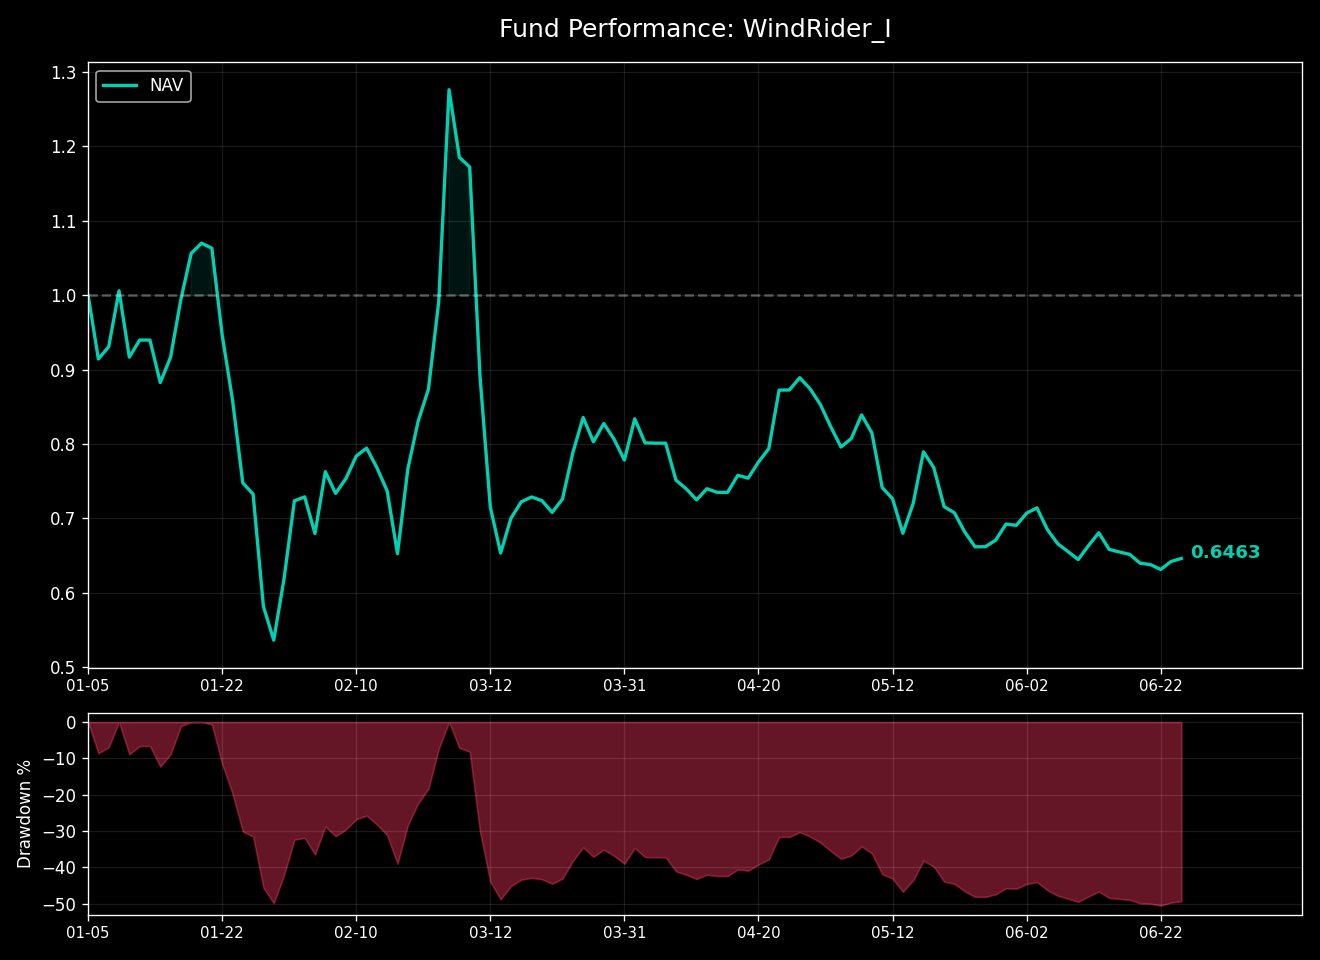
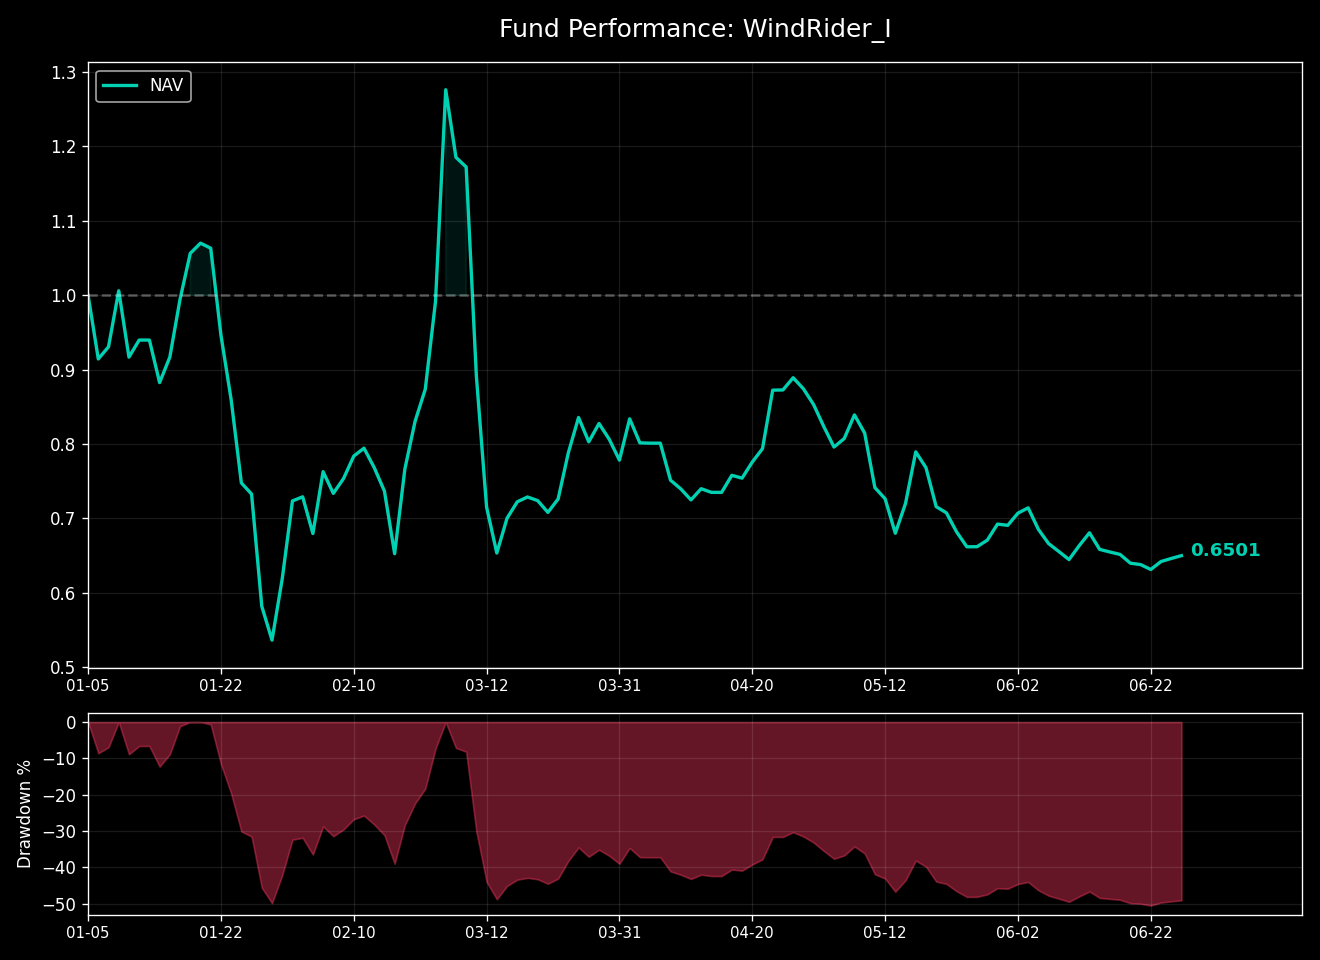
Updated Hugo site content

diff --git a/content/investment/windrider-1.md b/content/investment/windrider-1.md
@@ -1,8 +1,8 @@
 +++
 title = "风舵1号 (WindRider I)  /// 指数"
 summary = "商品期货分形摆动策略，实盘最新净值与核心风险指标。"
-date = 2026-06-24T15:15:03+08:00
-lastmod = 2026-06-24T15:15:03+08:00
+date = 2026-06-25T15:15:03+08:00
+lastmod = 2026-06-25T15:15:03+08:00
 draft = false
 description = "商品期货分形摆动策略实盘"
 +++
@@ -15,24 +15,24 @@ description = "商品期货分形摆动策略实盘"
 
 ### 风舵1号 (WindRider I) &nbsp;&nbsp;<span style="color: #E63946; font-weight: bold;">/</span><span style="color: #F1A73E; font-weight: bold;">/</span><span style="color: #000091; font-weight: bold;">/</span>&nbsp;&nbsp; 指数
 商品期货分形摆动策略实盘<br>
-净值简报 <small>(截至: 2026-06-24)</small>
+净值简报 <small>(截至: 2026-06-25)</small>
 
 |  |  |
 | :--- | :--- |
 | **指数代码：** | WDR1.CTA |
 | **起步日期：** | 2026-01-05 |
-| **最新净值：** | 0.6463 |
-| **今日涨跌：** | +0.64% |
+| **最新净值：** | 0.6501 |
+| **今日涨跌：** | +0.59% |
 
 ===========================
 
 | 核心指标 | |
 | :--- | :--- |
-| **累计涨跌：** | -35.37% |
-| **年化收益：** | -60.83% |
+| **累计涨跌：** | -34.99% |
+| **年化收益：** | -60.12% |
 | **最大回撤：** | -50.51% |
-| **卡玛比率：** | -1.20 |
-| **策略状态：** | 已运行 171 天 |
+| **卡玛比率：** | -1.19 |
+| **策略状态：** | 已运行 172 天 |
 
 ### 净值曲线
 ![风舵1号净值曲线](/images/investment/windrider_nav.png)